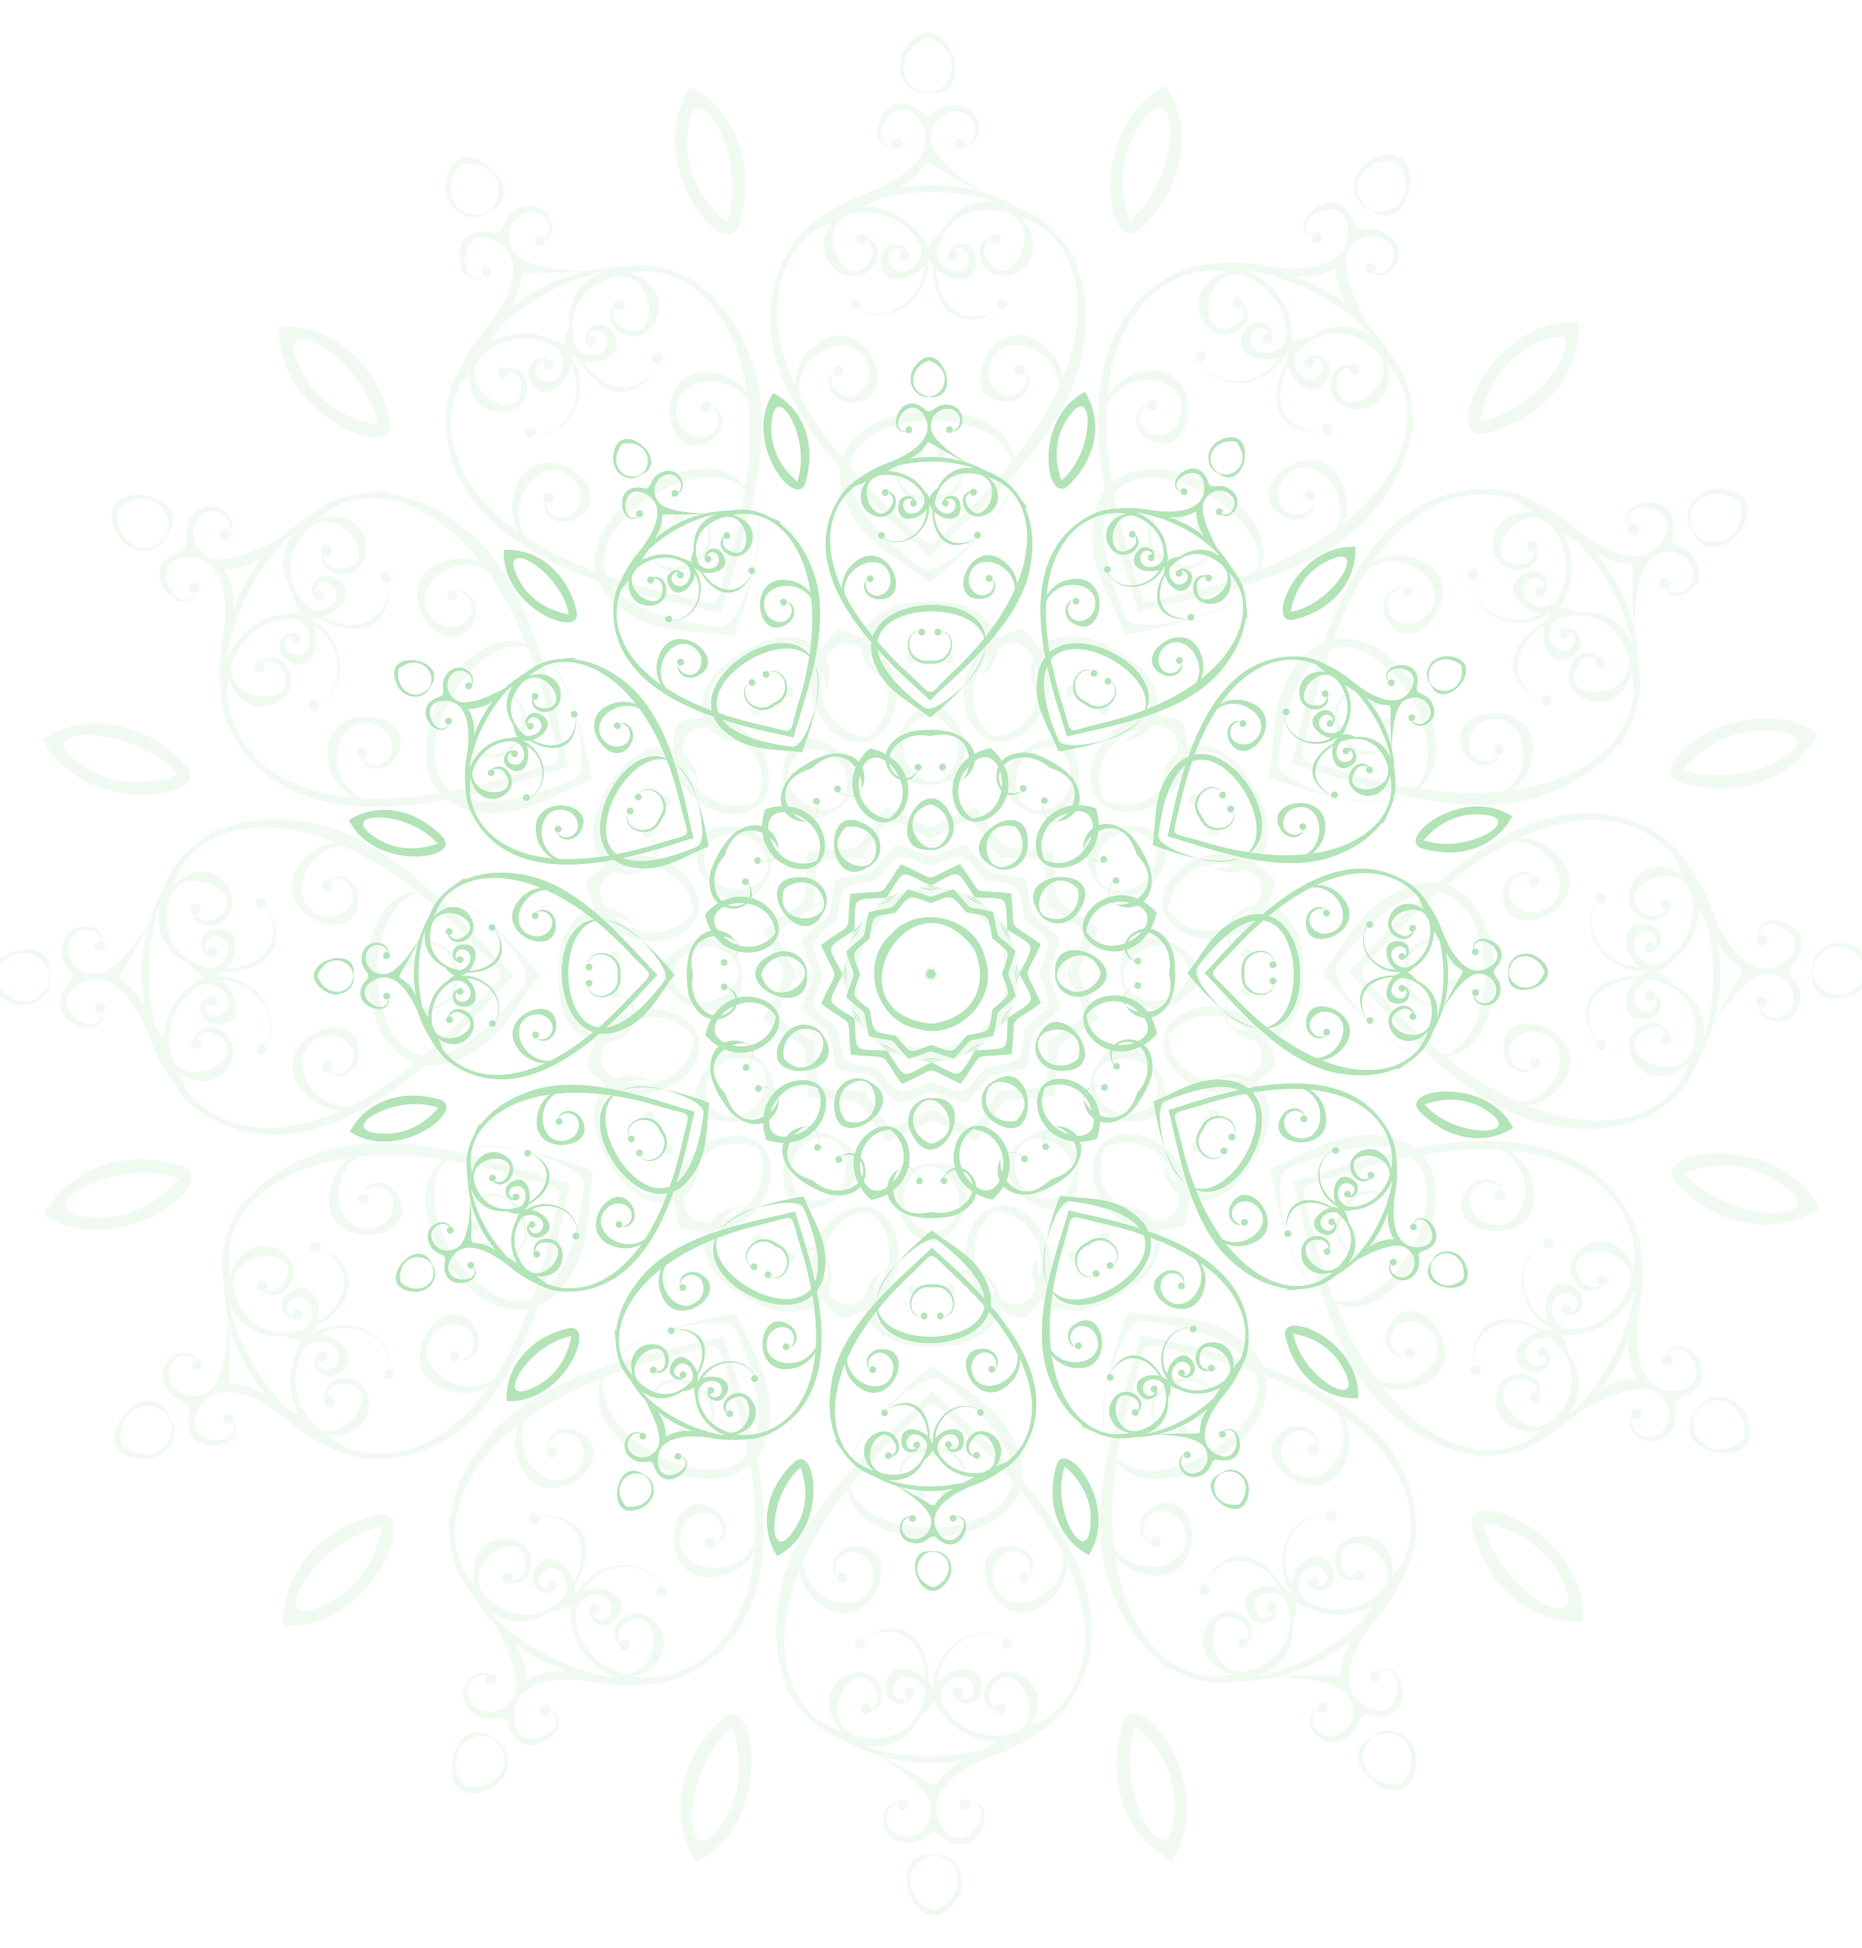
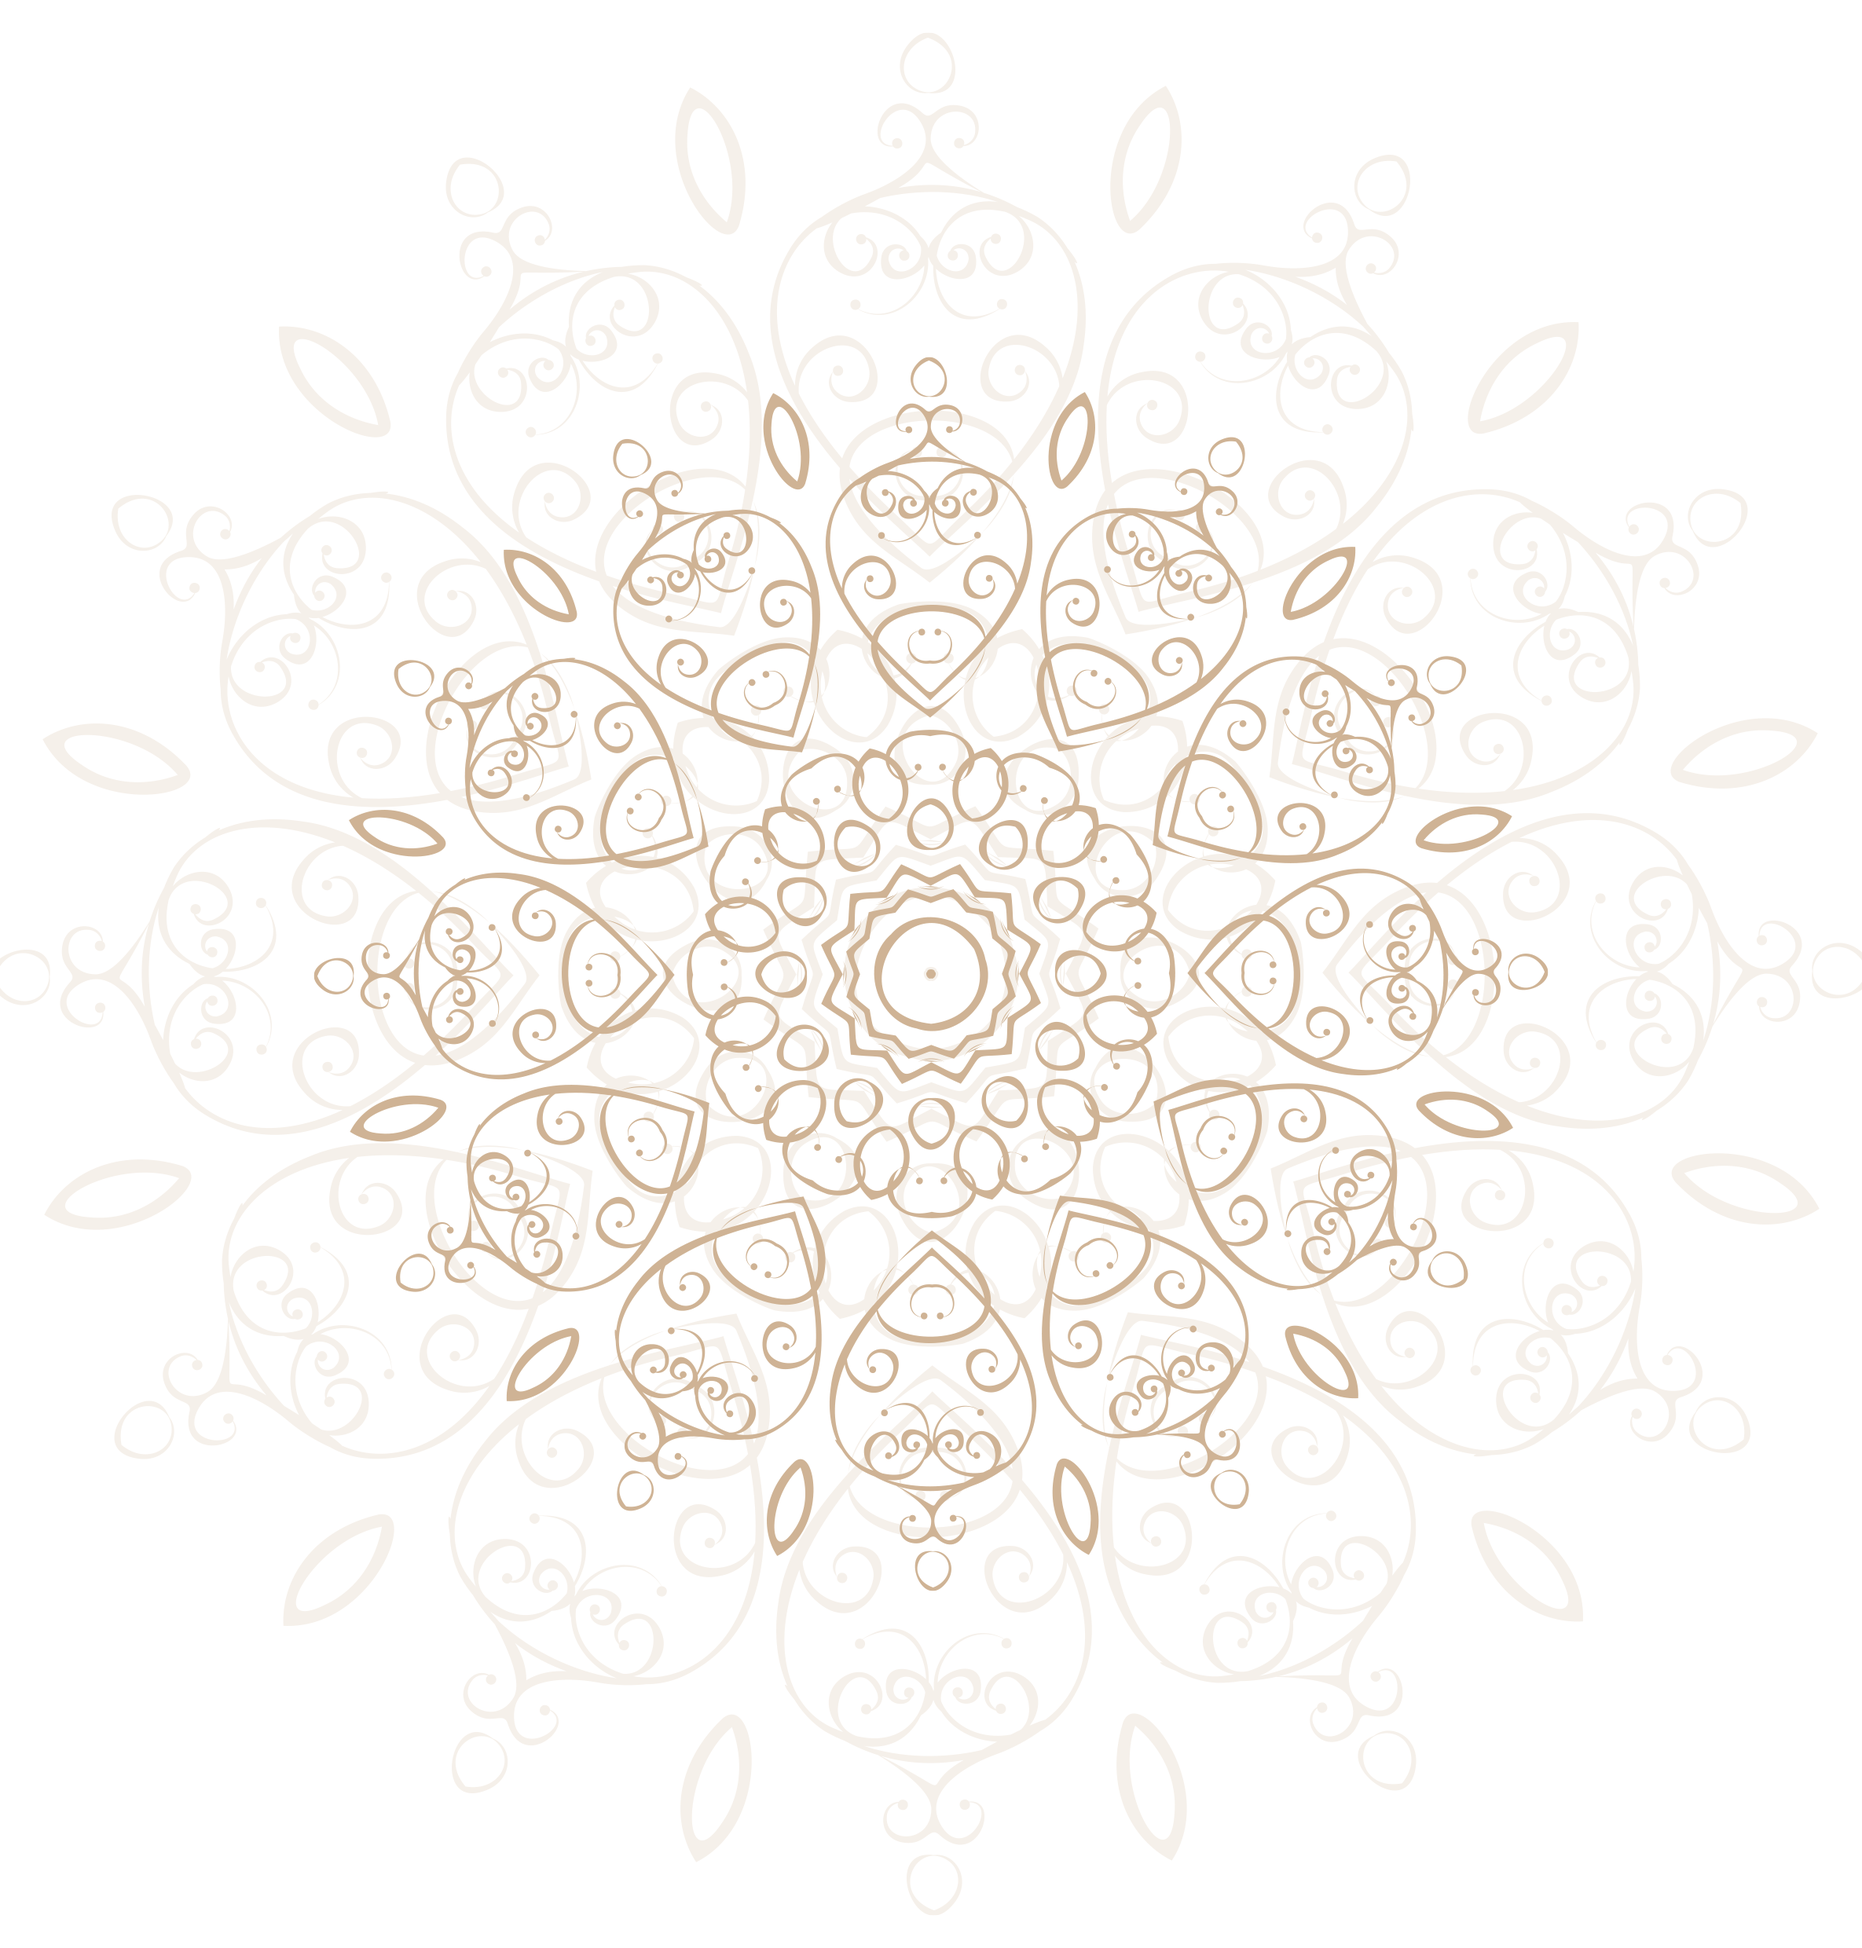
color change

diff --git a/src/components/books/books.jsx b/src/components/books/books.jsx
@@ -17,69 +17,69 @@ Aos.init();
 
 export default function Book() {
 const [resalla, setResalla] = useState([]);
-  const books = 
-  [
-    { 
-      id: 1, 
-      title: "عقیده طحاوی",
-      bimage: aqida,
-      write: "محمد بن حسن طحاوی",
-      publish: "ناشر",
-      year: "سال انتشار",
-      size: "سایز کتاب",
-      content: " محتویات در مورد کتاب عقیده طحاوی محتویات در مورد کتاب عقیده طحاوی محتویات در مورد کتاب عقیده طحاوی محتویات در مورد کتاب عقیده طحاوی",
-      numberofvol:1,
-      vol:1,
-    },
-    { 
-      id: 2, 
-      title: "هزار حدیث",
-      bimage: hazarhadith,
-      write: "...",
-      publish: "احمد",
-      year: "1401",
-      size: "2.3 MB",
-      content: " محتویات در مورد کتاب هزار حدیث محتویات در مورد کتاب هزار حدیث محتویات در مورد کتاب هزار حدیث محتویات در مورد کتاب هزار حدیث",
-      numberofvol:1,
-      vol:1,
-    },
-    { 
-      id: 3, 
-      title: "دلایل خیرات",
-      bimage: dalayel,
-      write: "...",
-      publish: "احمد",
-      year: "1401",
-      size: "1.3 MB",
-      content: " محتویات در مورد کتاب دلایل خیرات محتویات در مورد کتاب دلایل خیرات محتویات در مورد کتاب دلایل خیرات محتویات در مورد کتاب دلایل خیرات",
-      numberofvol:1,
-      vol:1,
-    },
-    { 
-      id: 4, 
-      title: "تفسیر کابلی",
-      bimage: tafsir,
-      write: "...",
-      publish: "احمد",
-      year: "1401",
-      size: "4.3 MB",
-      content: " محتویات در مورد کتابتفسیر کابلی محتویات در مورد کتابتفسیر کابلی محتویات در مورد کتابتفسیر کابلی محتویات در مورد کتاب تفسیر کابلی",
-      numberofvol:3,
-      vol:1,
-    },
-    { 
-      id: 5, 
-      title: "زیور بهشتی",
-      bimage: ziwar,
-      write: "...",
-      publish: "احمد",
-      year: "1401",
-      size: "5.3 MB",
-      content: " محتویات در مورد کتاب  زیور بهشتی محتویات در مورد کتاب زیور بهشتی محتویات در مورد کتاب زیور بهشتی محتویات در مورد کتاب  زیور بهشتی",
-      numberofvol:4,
-      vol:1,
-    },
-  ];
+  // const books = 
+  // [
+  //   { 
+  //     id: 1, 
+  //     title: "عقیده طحاوی",
+  //     bimage: aqida,
+  //     write: "محمد بن حسن طحاوی",
+  //     publish: "ناشر",
+  //     year: "سال انتشار",
+  //     size: "سایز کتاب",
+  //     content: " محتویات در مورد کتاب عقیده طحاوی محتویات در مورد کتاب عقیده طحاوی محتویات در مورد کتاب عقیده طحاوی محتویات در مورد کتاب عقیده طحاوی",
+  //     numberofvol:1,
+  //     vol:1,
+  //   },
+  //   { 
+  //     id: 2, 
+  //     title: "هزار حدیث",
+  //     bimage: hazarhadith,
+  //     write: "...",
+  //     publish: "احمد",
+  //     year: "1401",
+  //     size: "2.3 MB",
+  //     content: " محتویات در مورد کتاب هزار حدیث محتویات در مورد کتاب هزار حدیث محتویات در مورد کتاب هزار حدیث محتویات در مورد کتاب هزار حدیث",
+  //     numberofvol:1,
+  //     vol:1,
+  //   },
+  //   { 
+  //     id: 3, 
+  //     title: "دلایل خیرات",
+  //     bimage: dalayel,
+  //     write: "...",
+  //     publish: "احمد",
+  //     year: "1401",
+  //     size: "1.3 MB",
+  //     content: " محتویات در مورد کتاب دلایل خیرات محتویات در مورد کتاب دلایل خیرات محتویات در مورد کتاب دلایل خیرات محتویات در مورد کتاب دلایل خیرات",
+  //     numberofvol:1,
+  //     vol:1,
+  //   },
+  //   { 
+  //     id: 4, 
+  //     title: "تفسیر کابلی",
+  //     bimage: tafsir,
+  //     write: "...",
+  //     publish: "احمد",
+  //     year: "1401",
+  //     size: "4.3 MB",
+  //     content: " محتویات در مورد کتابتفسیر کابلی محتویات در مورد کتابتفسیر کابلی محتویات در مورد کتابتفسیر کابلی محتویات در مورد کتاب تفسیر کابلی",
+  //     numberofvol:3,
+  //     vol:1,
+  //   },
+  //   { 
+  //     id: 5, 
+  //     title: "زیور بهشتی",
+  //     bimage: ziwar,
+  //     write: "...",
+  //     publish: "احمد",
+  //     year: "1401",
+  //     size: "5.3 MB",
+  //     content: " محتویات در مورد کتاب  زیور بهشتی محتویات در مورد کتاب زیور بهشتی محتویات در مورد کتاب زیور بهشتی محتویات در مورد کتاب  زیور بهشتی",
+  //     numberofvol:4,
+  //     vol:1,
+  //   },
+  // ];
 
   var settings = {
     dots: true,

diff --git a/src/components/Home/Home.css b/src/components/Home/Home.css
@@ -34,7 +34,7 @@
   font-family: "Lalezar", serif;
   font-weight: 500;
   font-size: 70px;
-  background: linear-gradient(0deg, #ffffff, #f55a05e3);
+  background: linear-gradient(0deg, #ffffff, #00ff1e);
   -webkit-background-clip: text;
   -webkit-text-fill-color: transparent; /* Make text transparent */
   text-shadow: 2px 2px 4px rgba(0, 0, 0, 0.3); /* Subtle shadow for depth */
@@ -43,7 +43,7 @@
   padding: 20px 0; /* Add some padding for spacing */
 }
 .mainContainer .main .homeText .mainText0 img {
-  width: 30px;
+  width: 300px;
   margin: 15px 0;
 }
 .mainContainer .main .homeText .DesText {

diff --git a/src/App.css b/src/App.css
@@ -12,11 +12,13 @@
 }
 .taqrirList, .taqrirView, .hadithroz, .mainBooks ,.mainFeedbac, .bookdownload,.topics_card, .whoweare{
   background:linear-gradient(
-    rgba(0, 128, 0, 0.0),
-    rgba(0, 128, 0, 0.100),
-    rgba(0, 128, 0, 0.150),
-    rgba(0, 128, 0, 0.200),
-    rgba(0, 128, 0, 0.0));
+   #ec810600,
+   
+   #ec81061d,
+   #ec81061d,
+  
+   #ec810600
+   );
 }
 :root {
   --blue_dark: #125488;
@@ -24,7 +26,7 @@
   --blue_med: #20c8ee;
   --blue_white: #d1ebff;
 
-  --primary: green;
+  --primary: #9a6121;
   --gold_dark: #c6c6c6;
   --gold_white: #c4c4c4;
   --gold_light: #ffffff;

diff --git a/src/components/feedback/feedback.jsx b/src/components/feedback/feedback.jsx
@@ -1,6 +1,8 @@
 import "./feedback.css";
 import "aos/dist/aos.css";
-import "react-toastify/dist/ReactToastify.css";
+ 
+import 'react-toastify/ReactToastify.css';
+
 import flower from "../../assets/bgflowe.png";
 import axios from 'axios';
 import { TextField } from "@mui/material";

diff --git a/src/components/footer/footer.scss b/src/components/footer/footer.scss
@@ -1,6 +1,6 @@
 .footerClass{
     color: white;
-    background:linear-gradient(to left,#228b22, #086e08);
+    background:linear-gradient(to right,#936b3e, #b09b83);
     border-radius: 50px 50px 0 0 ;
     box-shadow: rgba(0, 0, 0, 0.15) 0px 5px 15px 20px;
     font-family: "Amiri";

diff --git a/src/components/footer/footer.css b/src/components/footer/footer.css
@@ -1,6 +1,6 @@
 .footerClass {
   color: white;
-  background: linear-gradient(to left, #228b22, #086e08);
+  background: linear-gradient(to right, #936b3e, #b09b83);
   border-radius: 50px 50px 0 0;
   box-shadow: rgba(0, 0, 0, 0.15) 0px 5px 15px 20px;
   font-family: "Amiri";
